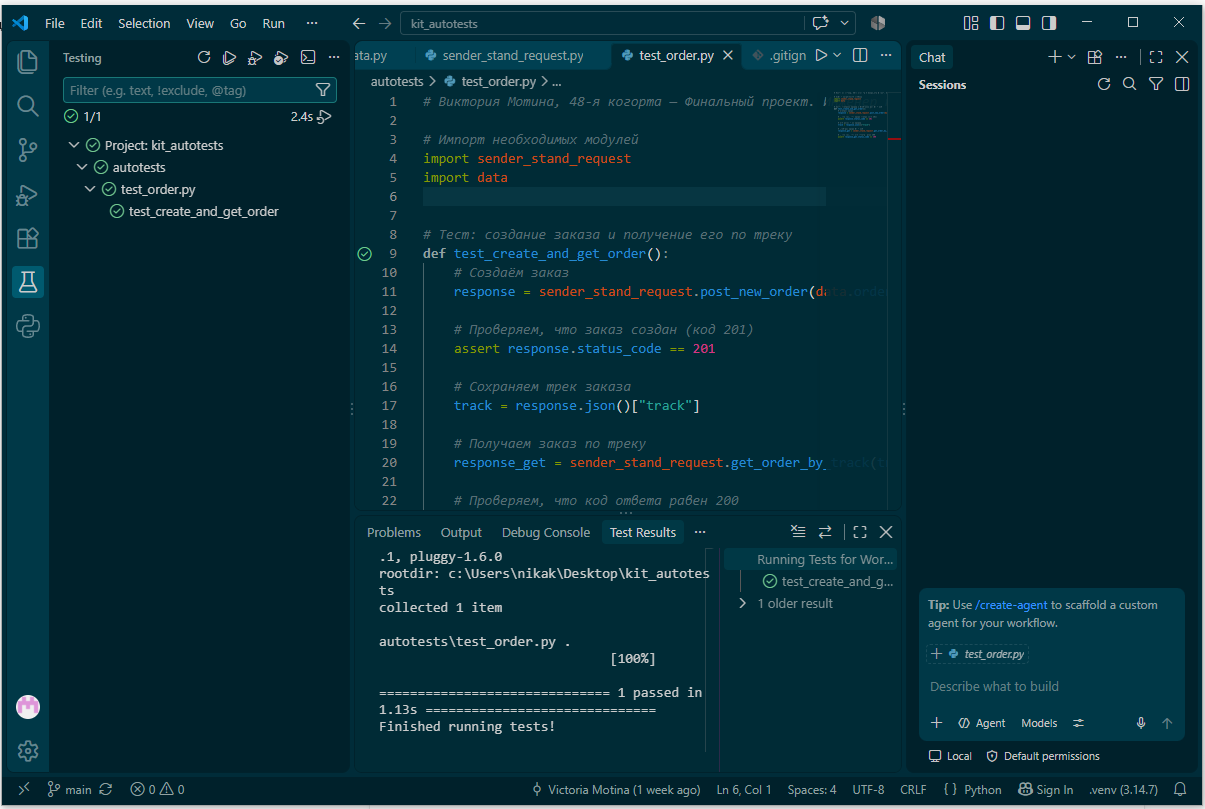
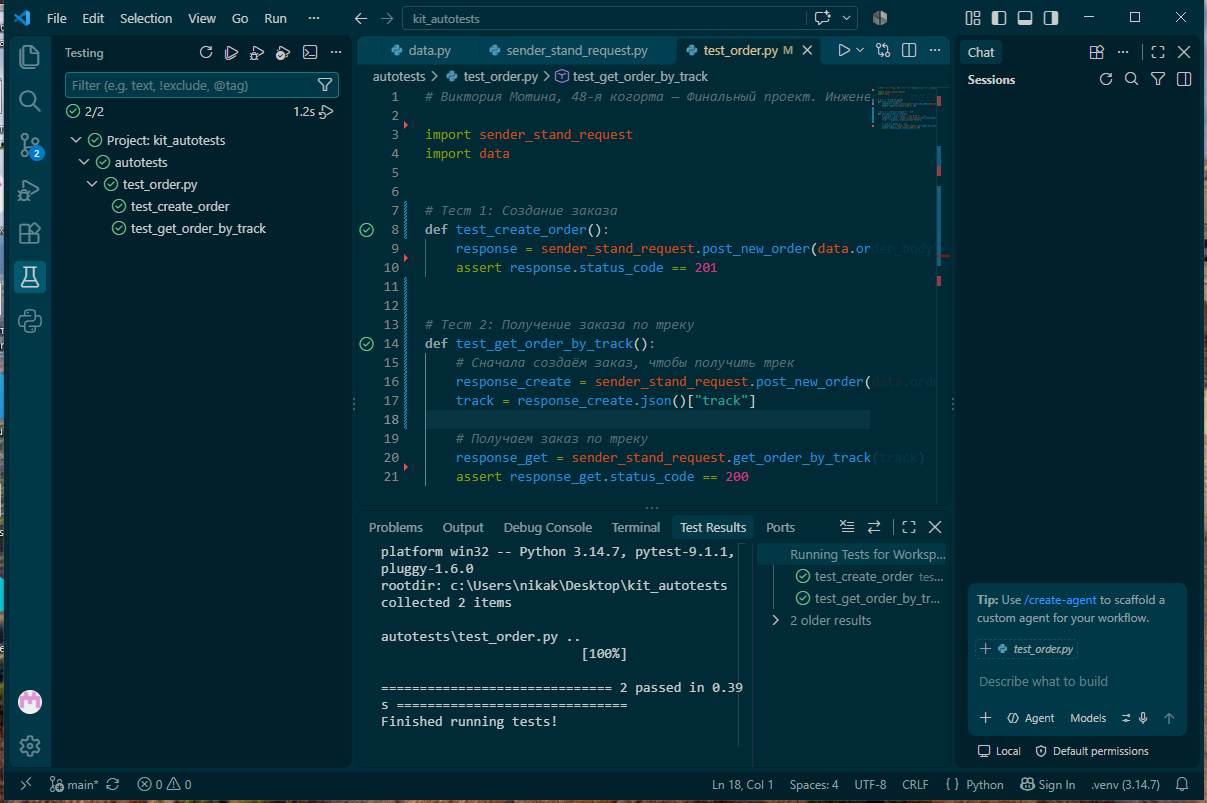
Обновлён URL, тест разделен на две функции, обновлён скриншот

diff --git a/autotests/test_order.py b/autotests/test_order.py
@@ -1,23 +1,21 @@
 # Виктория Мотина, 48-я когорта — Финальный проект. Инженер по тестированию плюс
 
-# Импорт необходимых модулей
 import sender_stand_request
 import data
 
 
-# Тест: создание заказа и получение его по треку
-def test_create_and_get_order():
-    # Создаём заказ
+# Тест 1: Создание заказа
+def test_create_order():
     response = sender_stand_request.post_new_order(data.order_body)
-    
-    # Проверяем, что заказ создан (код 201)
     assert response.status_code == 201
-    
-    # Сохраняем трек заказа
-    track = response.json()["track"]
-    
+
+
+# Тест 2: Получение заказа по треку
+def test_get_order_by_track():
+    # Сначала создаём заказ, чтобы получить трек
+    response_create = sender_stand_request.post_new_order(data.order_body)
+    track = response_create.json()["track"]
+
     # Получаем заказ по треку
     response_get = sender_stand_request.get_order_by_track(track)
-    
-    # Проверяем, что код ответа равен 200
     assert response_get.status_code == 200

diff --git a/autotests/configuration.py b/autotests/configuration.py
@@ -1,5 +1,5 @@
 # URL_SERVICE хранит базовый URL веб-сервиса
-URL_SERVICE = "https://ab102921-a054-442e-ad2d-0ddfa68512ea.serverhub.praktikum-services.ru"
+URL_SERVICE = "https://311d125c-6994-4b9c-bd05-e27562b26238.serverhub.praktikum-services.ru"
 
 # ORDERS_PATH хранит путь к API-методу для создания заказа
 ORDERS_PATH = "/api/v1/orders"
